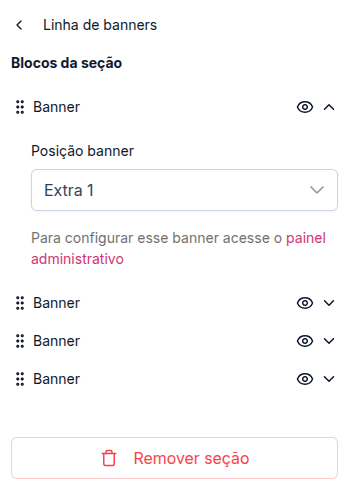
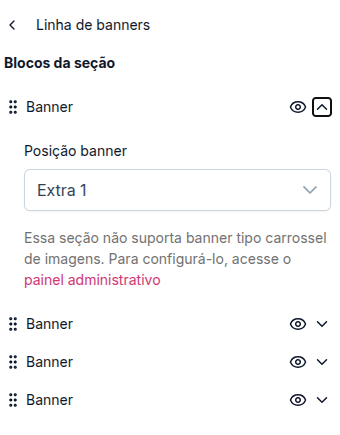
Atualização dos prints e textos dos itens que foram modificados

diff --git a/docs/tema-padrao-3-0/painel-do-tema/pagina-inicial/marcas.md b/docs/tema-padrao-3-0/painel-do-tema/pagina-inicial/marcas.md
@@ -5,28 +5,22 @@ Para esse bloco é possível realizar algumas configurações, tais como:
 * Selecionar se deseja exibir os itens ou não através do clique no ícone de olho
 * Remover um item
 * Arrastar o item para reposicioná-lo
-* Inserir a Imagem, o Texto alternativo e o Link da marca.
+* Selecionar a marca desejada
+* Inserir uma imagem para a marca
+* Selecionar se deseja exibir o link da marca
+* Inserir o link desejado
+* Selecionar se deseja abrir em nova aba
 
 
+**Marca:** Exibe um select com as marcas cadastradas no painel da plataforma, em Produtos > Marcas e Fabricantes.
 
-**Imagem da marca**
+**Imagem da marca:** Possível cadastrar uma imagem para a marca e também removê-la caso não deseje mais exibir a imagem. Tamanho recomendado para a imagem é de 137x120 px.
 
-Possível cadastrar uma imagem para a marca e também removê-la caso não deseje mais exibir a imagem.
+**Exibir link da marca:** Selecionar se deseja exibir o link da marca. Lembrando que se essa opção não estiver selecionada, irá exibir a marca sem nenhum link.
 
+**Link:** Inserir o link desejado. Se deixar em branco exibirá o link padrão da marca cadastrado no painel da plataforma, em Produtos > Marcas e Fabricantes.
 
-
-**Texto alternativo**
-
-Exibido caso a imagem da marca não tenha sido cadastrada. Se a imagem for cadastrada será exibido como o atributo _ALT_ da imagem.
-
-::: info **Atributo ALT:**
-Sua principal função é garantir a acessibilidade para utilizadores com deficiência visual, que usam leitores de tela, e para os motores de busca, como o Google, que o utilizam para entender o conteúdo e o contexto da imagem para otimização de SEO
-:::
-
-
-**Link**
-
-Deve ser cadastrado para que se tenha acesso a página da marca e os seus produtos.
+**Abrir em nova aba:** Selecionar se deseja abrir o link em uma nova aba.
 
 ::: info Mais
 Para cadastrar as marcas no painel da plataforma e ter o seu link acesse: **Produtos > Marcas**. Para maiores detalhes [clique aqui](https://basedeconhecimento.bagy.com.br/hc/pt-br/articles/44774623772180-Cadastrando-marcas-e-fabricantes-na-sua-loja-Bagy-3-0).
@@ -37,3 +31,9 @@ Lembrando que é possível cadastrar no **máximo 10** marcas.
 ![image](/tema-padrao-3-0/painel-do-tema-pagina-inicial-marcas.png)
 
 ![image](/tema-padrao-3-0/painel-do-tema-pagina-inicial-marcas-2.png)
+
+**Configurações da seção:** É possível selecionar se deseja exibir o nome da marca.
+
+![image](/tema-padrao-3-0/painel-do-tema-pagina-inicial-marcas-3.png)
+
+![image](/tema-padrao-3-0/painel-do-tema-pagina-inicial-marcas-4.png)

diff --git a/docs/tema-padrao-3-0/painel-do-tema/pagina-inicial/vitrine.md b/docs/tema-padrao-3-0/painel-do-tema/pagina-inicial/vitrine.md
@@ -25,7 +25,7 @@ Ao selecionar **Produtos específicos** em **Tipo da vitrine**, é possível esc
 
 ![image](/tema-padrao-3-0/painel-do-tema-pagina-inicial-vitrine-2.png)
 
-Ao clicar em **Selecionar produtos**, será exibida uma lista com os produtos, basta clicar nos que deseja e em seguida no botão **Confirmar** que fica no rodapé.
+Ao clicar em **Selecionar produtos**, será exibida uma lista com os produtos, basta clicar nos que deseja e em seguida no botão **Confirmar** que fica no rodapé. Para produtos que tenham variação, é possível selecionar o produto "pai" ou selecionar as variações desejadas.
 
 Caso deseje procurar por um produto específico, no topo tem uma busca que pode ser realizada pelo nome ou código do produto.
 
@@ -33,8 +33,13 @@ Se não quiser selecionar nenhum produto, basta clicar no botão **Cancelar**
 
 ![image](/tema-padrao-3-0/painel-do-tema-pagina-inicial-vitrine-3.png)
 
-![image](/tema-padrao-3-0/painel-do-tema-pagina-inicial-vitrine-4.png)
+![image](/tema-padrao-3-0/painel-do-tema-pagina-inicial-vitrine-5.png)
 
+Para esse bloco de produtos é possível selecionar no máximo 16 produtos.
+
+![image](/tema-padrao-3-0/painel-do-tema-pagina-inicial-vitrine-6.png)
+
+![image](/tema-padrao-3-0/painel-do-tema-pagina-inicial-vitrine-4.png)
 ::: info **Dica:**
 Para saber mais sobre cadastro de produtos na plataforma, basta clicar [**aqui**.](https://basedeconhecimento.bagy.com.br/hc/pt-br/articles/44774449482004-Cadastrando-um-produto-na-sua-loja-Bagy-3-0)
 :::

diff --git a/docs/tema-padrao-3-0/painel-do-tema/cabecalho.md b/docs/tema-padrao-3-0/painel-do-tema/cabecalho.md
@@ -9,8 +9,11 @@ Em **Blocos da seção** temos:
 * **Logo:** exibe a logo da loja.
 * **Busca:** exibe a busca e é possível escolher o **Estilo de exibição** se será **Texto e ícone** ou somente **ícone**, sendo também possível editar o **Texto da busca**.
 * **Minha conta e Carrinho:** exibe os blocos de **Minha Conta** e **Carrinho**. Sendo possível escolher se deseja exibir o **Minha Conta** como **Texto e ícone** ou somente **ícone** e se deseja exibir somente o **ícone** do **Carrinho** ou **Mostrar contador** de quantidade de itens presente.
+* **Ícones customizados:** possível escolher o tamanho do ícones, variando de 16 à 48px, e cadastrar uma imagem para cada ícone.
 
 ![image](/tema-padrao-3-0/painel-tema-cabecalho.png)
+![image](/tema-padrao-3-0/painel-tema-cabecalho-2.png)
+
 Lembrando que para esses três blocos é possível fazer a sua reordenação, de acordo com o desejo de como exibir o cabeçalho.&#x20;
 
 ![image](/tema-padrao-3-0/painel-tema-cabecalho-2.gif)

diff --git a/docs/tema-padrao-3-0/painel-do-tema/pagina-de-produto/produto.md b/docs/tema-padrao-3-0/painel-do-tema/pagina-de-produto/produto.md
@@ -15,10 +15,10 @@ Em **Blocos da seção** temos:
 
     * **Preço em destaque:** Possível de escolher a maneira de **exibição do Preço do** **produto**, se será **Normal** ou **Pagamento com desconto.**
     * **Habilitar compartilhamento redes sociais:** Possibilidade de exibir ou não o compartilhamento do produto nas redes sociais.
-    * **Link da tabela de medidas:** Possível inserir o link para uma página personalizada com a tabela de medidas. O conteúdo será exibido em um modal.
+    * **Tabela de medidas:** Possível selecionar o link de uma página personalizada com a tabela de medidas. O select exibe as páginas cadastradas no painel da plataforma em **Configurações > Minha loja > Páginas internas**. O conteúdo da página será exibido em um modal.
 
 
-    ![image](/tema-padrao-3-0/painel-do-tema-pagina-produto-produto.png)
+![image](/tema-padrao-3-0/painel-do-tema-pagina-produto-produto.png)
 
 ![image](/tema-padrao-3-0/painel-do-tema-pagina-produto-produto-2.png)
 

diff --git a/docs/tema-padrao-3-0/painel-do-tema/pagina-inicial/linha-de-banners.md b/docs/tema-padrao-3-0/painel-do-tema/pagina-inicial/linha-de-banners.md
@@ -8,7 +8,7 @@ Para esse bloco é possível realizar algumas configurações, tais como:
 
 As posições recomendadas para esses banners são: Extra 1, Extra 2, Extra 3 e Extra 4.
 
-Lembrando que para esse bloco é possível selecionar **no máximo** 4 banners e que eles são responsivos, ou seja, não tem versão desktop e mobile.
+Lembrando que para esse bloco é possível selecionar **no máximo** 4 banners e que eles são responsivos, ou seja, não tem versão desktop e mobile. Lembrando também que essa seção não suporta banners do tipo carrossel de imagens.
 
 ![image](/tema-padrao-3-0/painel-do-tema-pagina-inicial-linha-banners.png)
 

diff --git a/docs/tema-padrao-3-0/painel-do-tema/pagina-inicial/grade-de-banners.md b/docs/tema-padrao-3-0/painel-do-tema/pagina-inicial/grade-de-banners.md
@@ -8,7 +8,7 @@ Para esse bloco é possível realizar algumas configurações, tais como:
 
 As posições recomendadas para esses banners são: Extra 5, Extra 6 e Extra 7.
 
-Lembrando que para esse bloco é possível selecionar **no máximo** 3 banners e que eles são responsivos, ou seja, não tem versão desktop e mobile.
+Lembrando que para esse bloco é possível selecionar **no máximo** 3 banners e que eles são responsivos, ou seja, não tem versão desktop e mobile. Lembrando também que essa seção não suporta banners do tipo carrossel de imagens.
 
 ![image](/tema-padrao-3-0/painel-do-tema-pagina-inicial-grade-banners.png)
 
